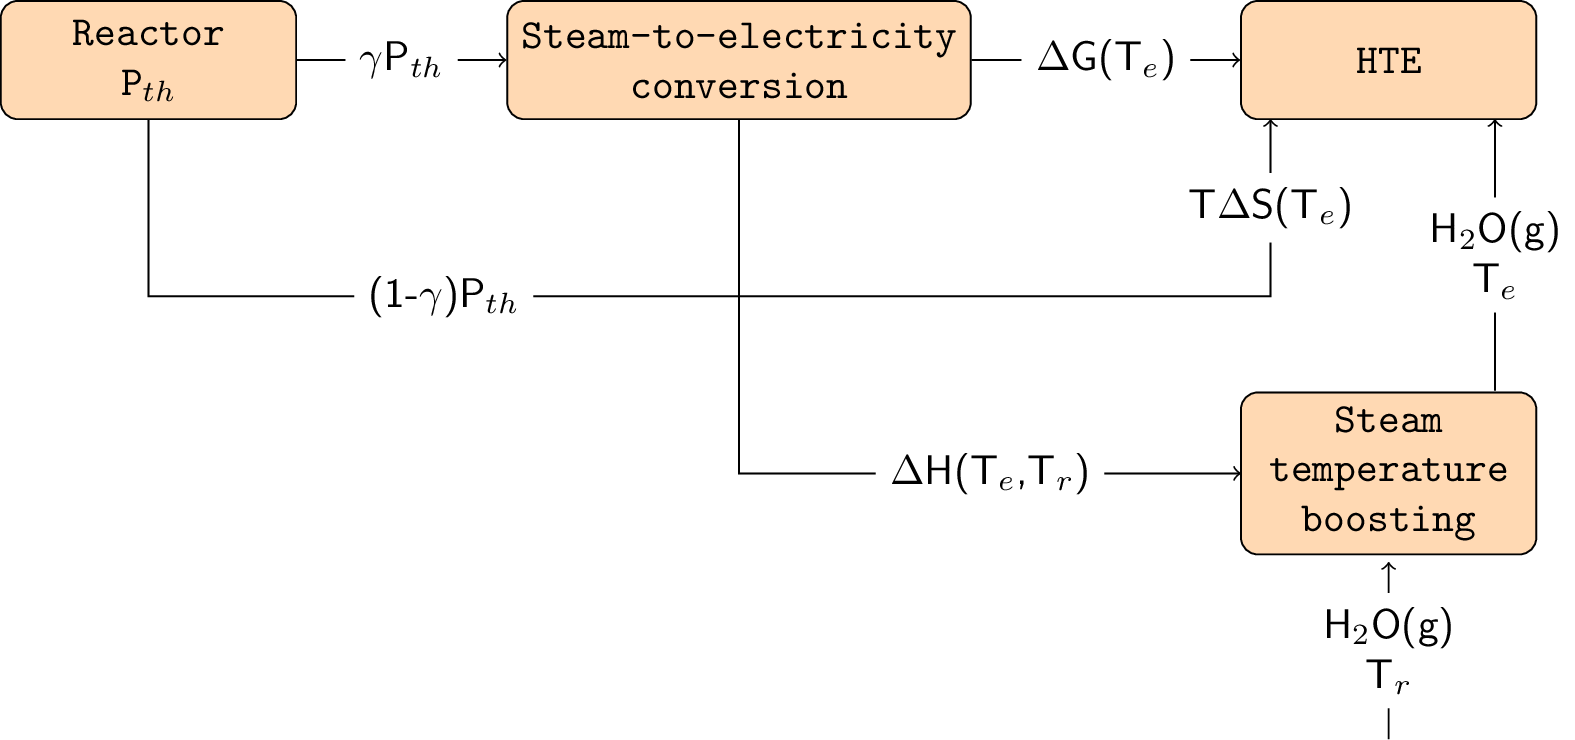
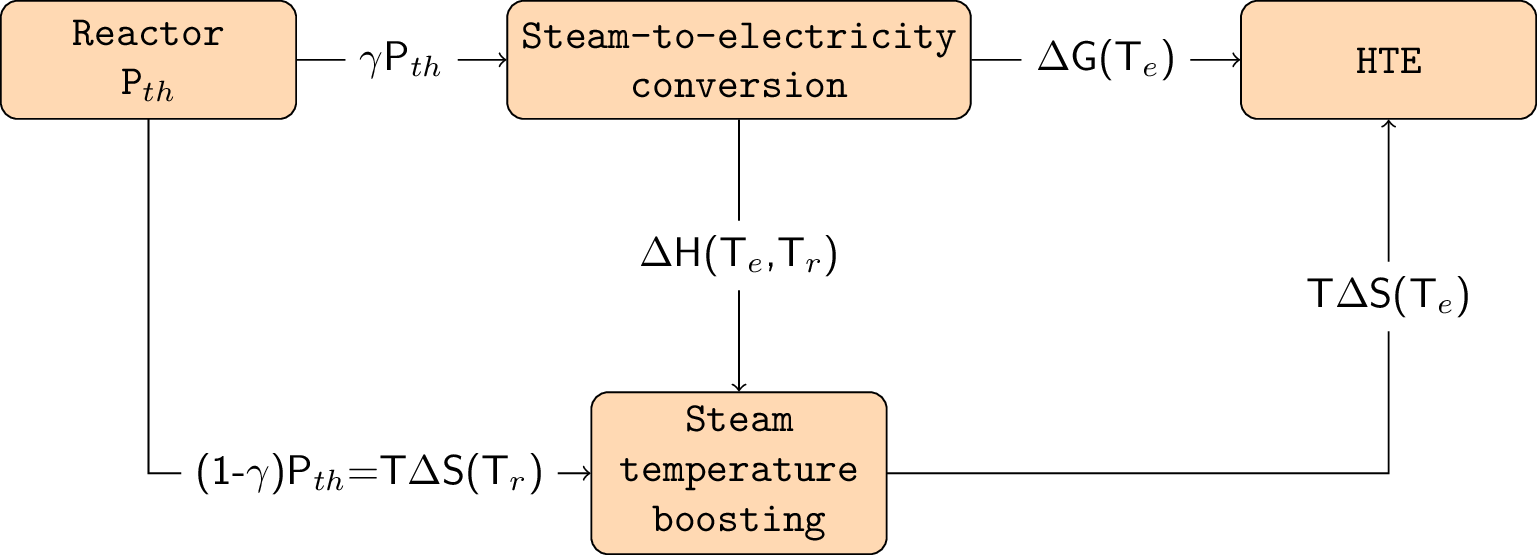
changes in HTE2 figure

diff --git a/hydro-requirement/figures/hte2.tex b/hydro-requirement/figures/hte2.tex
@@ -26,8 +26,6 @@
 \begin{document}
 
 {
-% Here we specify the figure will be converted and inserted as PNG
-\tikzset{png export}
 \begin{tikzpicture}[
     base/.style = {rectangle, rounded corners, draw=black,
 minimum width=3cm, minimum height=1cm,
@@ -41,51 +39,105 @@ every node/.style={fill=white, font=\sffamily}, align=center
   \node (reactor) [process] {Reactor\\P$_{th}$};
   \node (steam1)  [process, right of=reactor, xshift=2.cm] {Steam-to-electricity\\conversion};
   \node (hte)     [process, right of=steam1, xshift=2.5cm] {HTE};
-  \node (steam2)  [process, below of=hte, yshift=-0.5cm, xshift=0.cm] {Steam\\temperature\\boosting};
+  \node (steam2)  [process, below of=steam1, yshift=-0.5cm, xshift=0.cm] {Steam\\temperature\\boosting};
   
   \draw[->]     (reactor) -- (steam1) node[midway] {$\gamma$P$_{th}$};
-  \draw[->]     (reactor) ++(0.,-0.5)-- ++(0.,-1.5)-- node[midway] {(1-$\gamma$)P$_{th}$} ++(5,0)-- ++(4.5,0.)-- node[midway] {T$\Delta$S(T$_r$)} ++(0.,1.5);
-  \draw[->]     (steam1) ++(0,-.5)-- ++(0.,-3.)-- node[midway] {$\Delta$H(T$_e$,T$_r$)} ++(4.25,0.);
+  \draw[->]     (reactor) ++(0.,-0.5)-- ++(0.,-3)-- (steam2) node[midway] {(1-$\gamma$)P$_{th}$=T$\Delta$S(T$_r$)};
+  \draw[->]     (steam1) -- (steam2) node[midway] {$\Delta$H(T$_e$,T$_r$)};
+  \draw[->]     (steam2) ++(1.25, 0)-- ++(4.25, 0) -- (hte) node[midway] {T$\Delta$S(T$_e$)};
   \draw[->]     (steam1) -- (hte) node[midway] {$\Delta$G(T$_e$)};
+
+  % \draw[->]     (steam1) ++(0,-.5)-- ++(0.,-3.)-- node[midway] {$\Delta$H(T$_e$,T$_r$)} ++(4.25,0.);
+  % \draw[->]     (steam1) -- (hte) node[midway] {$\Delta$G(T$_e$)};
   
-  \draw[->]     (steam2) ++(0,-2.25)-- node[midway] {H$_2$O(g)\\T$_r$} ++(0,1.5);
-  \draw[->]     (steam2) ++(0.9,0.7)-- node[midway] {H$_2$O(g)\\T$_e$} ++(0,2.3);
+  % \draw[->]     (steam2) ++(0,-2.25)-- node[midway] {H$_2$O(g)\\T$_r$} ++(0,1.5);
+  % \draw[->]     (steam2) ++(0.9,0.7)-- node[midway] {H$_2$O(g)\\T$_e$} ++(0,2.3);
 
 \end{tikzpicture}
 }
 
-{
-% Here we specify the figure will be converted and inserted as PNG
-\tikzset{png export}
-\begin{tikzpicture}[
-    base/.style = {rectangle, rounded corners, draw=black,
-minimum width=3cm, minimum height=1cm,
-text centered, font=\sffamily},
-process/.style = {base, minimum width=2.5cm, fill=orange!30,
-font=\ttfamily},
-node distance=3cm,
-every node/.style={fill=white, font=\sffamily}, align=center
-]
+% {
+% \begin{tikzpicture}[
+%     base/.style = {rectangle, rounded corners, draw=black,
+% minimum width=3cm, minimum height=1cm,
+% text centered, font=\sffamily},
+% process/.style = {base, minimum width=2.5cm, fill=orange!30,
+% font=\ttfamily},
+% node distance=3cm,
+% every node/.style={fill=white, font=\sffamily}, align=center
+% ]
 
-  \node (reactor) [process] {Reactor\\P$_{th}$};
-  \node (steam1)  [process, right of=reactor, xshift=2.cm] {Steam-to-electricity\\conversion};
-  \node (hte)     [process, right of=steam1, xshift=2.5cm] {HTE};
-  \node (steam2)  [process, below of=hte, yshift=0cm, xshift=0.cm] {Steam\\temperature\\boosting};
-  \node (steam3)  [process, below of=steam2, yshift=0.2cm, xshift=0.cm] {Steam\\Production};
+%   \node (reactor) [process] {Reactor\\P$_{th}$};
+%   \node (steam1)  [process, right of=reactor, xshift=2.cm] {Steam-to-electricity\\conversion};
+%   \node (hte)     [process, right of=steam1, xshift=2.5cm] {HTE};
+%   \node (steam2)  [process, below of=hte, yshift=-0.5cm, xshift=0.cm] {Steam\\temperature\\boosting};
+%   \draw[->]     (reactor) -- (steam1) node[midway] {$\gamma$P$_{th}$};
+%   \draw[->]     (reactor) ++(0.,-0.5)-- ++(0.,-1.5)-- node[midway] {(1-$\gamma$)P$_{th}$} ++(5,0)-- ++(4.5,0.)-- node[midway] {T$\Delta$S(T$_e$)} ++(0.,1.5);
+%   \draw[->]     (steam1) ++(0,-.5)-- ++(0.,-3.)-- node[midway] {$\Delta$H(T$_e$,T$_r$)} ++(4.25,0.);
+%   \draw[->]     (steam1) -- (hte) node[midway] {$\Delta$G(T$_e$)};
   
-  \draw[->]     (reactor) -- (steam1) node[midway] {$\gamma$P$_{th}$};
-  \draw[->]     (reactor) ++(0.,-0.5)-- ++(0.,-1.1)-- node[midway] {(1-$\gamma$)P$_{th}$} ++(3,0)-- ++(6.5,0.)-- node[midway] {T$\Delta$S(T$_e$)} ++(0.,1.1);
-  \draw[->]     (steam1) ++(0,-.5)-- ++(0.,-2.5)-- node[midway] {$\Delta$H(T$_e$,T$_r$)} ++(4.25,0.);
-  \draw[->]     (steam1) -- (hte) node[midway] {$\Delta$G(T$_e$)};
+%   \draw[->]     (steam2) ++(0,-2.25)-- node[midway] {H$_2$O(g)\\T$_r$} ++(0,1.5);
+%   \draw[->]     (steam2) ++(0.9,0.7)-- node[midway] {H$_2$O(g)\\T$_e$} ++(0,2.3);
+
+% \end{tikzpicture}
+% }
+
+% {
+% % Here we specify the figure will be converted and inserted as PNG
+% \tikzset{png export}
+% \begin{tikzpicture}[
+%     base/.style = {rectangle, rounded corners, draw=black,
+% minimum width=3cm, minimum height=1cm,
+% text centered, font=\sffamily},
+% process/.style = {base, minimum width=2.5cm, fill=orange!30,
+% font=\ttfamily},
+% node distance=3cm,
+% every node/.style={fill=white, font=\sffamily}, align=center
+% ]
+
+%   \node (reactor) [process] {Reactor\\P$_{th}$};
+%   \node (steam1)  [process, right of=reactor, xshift=2.cm] {Steam-to-electricity\\conversion};
+%   \node (hte)     [process, right of=steam1, xshift=2.5cm] {HTE};
   
-  \draw[->]     (steam2) ++(0,-2.3)-- node[midway] {H$_2$O(g)\\T$_r$} ++(0,1.6);
-  \draw[->]     (steam2) ++(0.9,0.7)-- node[midway] {H$_2$O(g)\\T$_e$} ++(0,1.8);
+%   \draw[->]     (reactor) -- (steam1) node[midway] {$\gamma$P$_{th}$};
+%   \draw[->]     (reactor) ++(0.,-0.5)-- ++(0.,-1.)-- node[midway] {(1-$\gamma$)P$_{th}$ = T$\Delta$S(T$_e$)}++(10.5,0.)-- ++(0.,1.);
+%   \draw[->]     (steam1) -- (hte) node[midway] {$\eta\gamma$P$_{th}$\\ =$\Delta$G(T$_e$)};
+% \end{tikzpicture}
+% }
 
-  \draw[->]     (reactor) ++(3.8,-1.6)-- ++(0,-4.2)-- node[midway] {$\Delta$H(T$_r$,25$^\circ$C)} ++(5.4,0);
-  \draw[->]     (steam3) ++(0,-2.1)-- node[midway] {H$_2$O(l)\\25$^\circ$C} ++(0,1.6);
 
-\end{tikzpicture}
-}
+% {
+% % Here we specify the figure will be converted and inserted as PNG
+% \tikzset{png export}
+% \begin{tikzpicture}[
+%     base/.style = {rectangle, rounded corners, draw=black,
+% minimum width=3cm, minimum height=1cm,
+% text centered, font=\sffamily},
+% process/.style = {base, minimum width=2.5cm, fill=orange!30,
+% font=\ttfamily},
+% node distance=3cm,
+% every node/.style={fill=white, font=\sffamily}, align=center
+% ]
+
+%   \node (reactor) [process] {Reactor\\P$_{th}$};
+%   \node (steam1)  [process, right of=reactor, xshift=2.cm] {Steam-to-electricity\\conversion};
+%   \node (hte)     [process, right of=steam1, xshift=2.5cm] {HTE};
+%   \node (steam2)  [process, below of=hte, yshift=0cm, xshift=0.cm] {Steam\\temperature\\boosting};
+%   \node (steam3)  [process, below of=steam2, yshift=0.2cm, xshift=0.cm] {Steam\\Production};
+  
+%   \draw[->]     (reactor) -- (steam1) node[midway] {$\gamma$P$_{th}$};
+%   \draw[->]     (reactor) ++(0.,-0.5)-- ++(0.,-1.1)-- node[midway] {(1-$\gamma$)P$_{th}$} ++(3,0)-- ++(6.5,0.)-- node[midway] {T$\Delta$S(T$_e$)} ++(0.,1.1);
+%   \draw[->]     (steam1) ++(0,-.5)-- ++(0.,-2.5)-- node[midway] {$\Delta$H(T$_e$,T$_r$)} ++(4.25,0.);
+%   \draw[->]     (steam1) -- (hte) node[midway] {$\Delta$G(T$_e$)};
+  
+%   \draw[->]     (steam2) ++(0,-2.3)-- node[midway] {H$_2$O(g)\\T$_r$} ++(0,1.6);
+%   \draw[->]     (steam2) ++(0.9,0.7)-- node[midway] {H$_2$O(g)\\T$_e$} ++(0,1.8);
+
+%   \draw[->]     (reactor) ++(3.8,-1.6)-- ++(0,-4.2)-- node[midway] {$\Delta$H(T$_r$,25$^\circ$C)} ++(5.4,0);
+%   \draw[->]     (steam3) ++(0,-2.1)-- node[midway] {H$_2$O(l)\\25$^\circ$C} ++(0,1.6);
+
+% \end{tikzpicture}
+% }
 
 \end{document}
 
